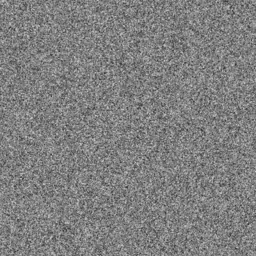
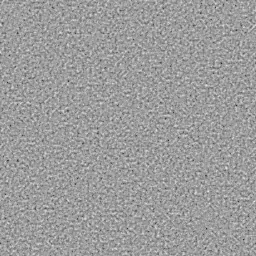
Grain: bake the original SVG filter into the tile so it looks the same
Hand-made noise was blotchier than the filter (neighbour correlation 0.86 vs
0.66) and the filter works in linearRGB, which the tile missed. Render the
original feTurbulence chain into a seamless 128px (256 texel) tile instead.
Headless-Chromium check at 2x against the original page: mean, noise std and
correlation match in the good, sensitive and unhealthy states.

Claude-Session: https://claude.ai/code/session_01PQBPegGtoemQK82HpaHEuE

diff --git a/styles.css b/styles.css
@@ -176,9 +176,11 @@ body { margin: 0; }
 .foot { margin: 0; font-size: 13px; line-height: 1.5; color: var(--muted); }
 
 /* ---- Grain --------------------------------------------------------------- */
-/* Fixed to the viewport (not the full page height) and tiled from a 256px image,
-   so the GPU holds one screen-sized layer instead of a page-sized live filter. */
-.grain { position: fixed; inset: 0; pointer-events: none; background: url(assets/grain.webp) 0 0 / 256px 256px repeat; mix-blend-mode: overlay; opacity: var(--grain); }
+/* Fixed to the viewport (not the full page height) and tiled from a small image,
+   so the GPU holds one screen-sized layer instead of a page-sized live filter.
+   assets/grain.webp is the old SVG feTurbulence filter (freq 0.8, 2 octaves) baked into a seamless
+   128px tile at 2x (256 texels), so it looks the same; --grain still sets the strength. */
+.grain { position: fixed; inset: 0; pointer-events: none; background: url(assets/grain.webp) 0 0 / 128px 128px repeat; mix-blend-mode: overlay; opacity: var(--grain); }
 
 /* ---- Mobile -------------------------------------------------------------- */
 @media (max-width: 720px) {
